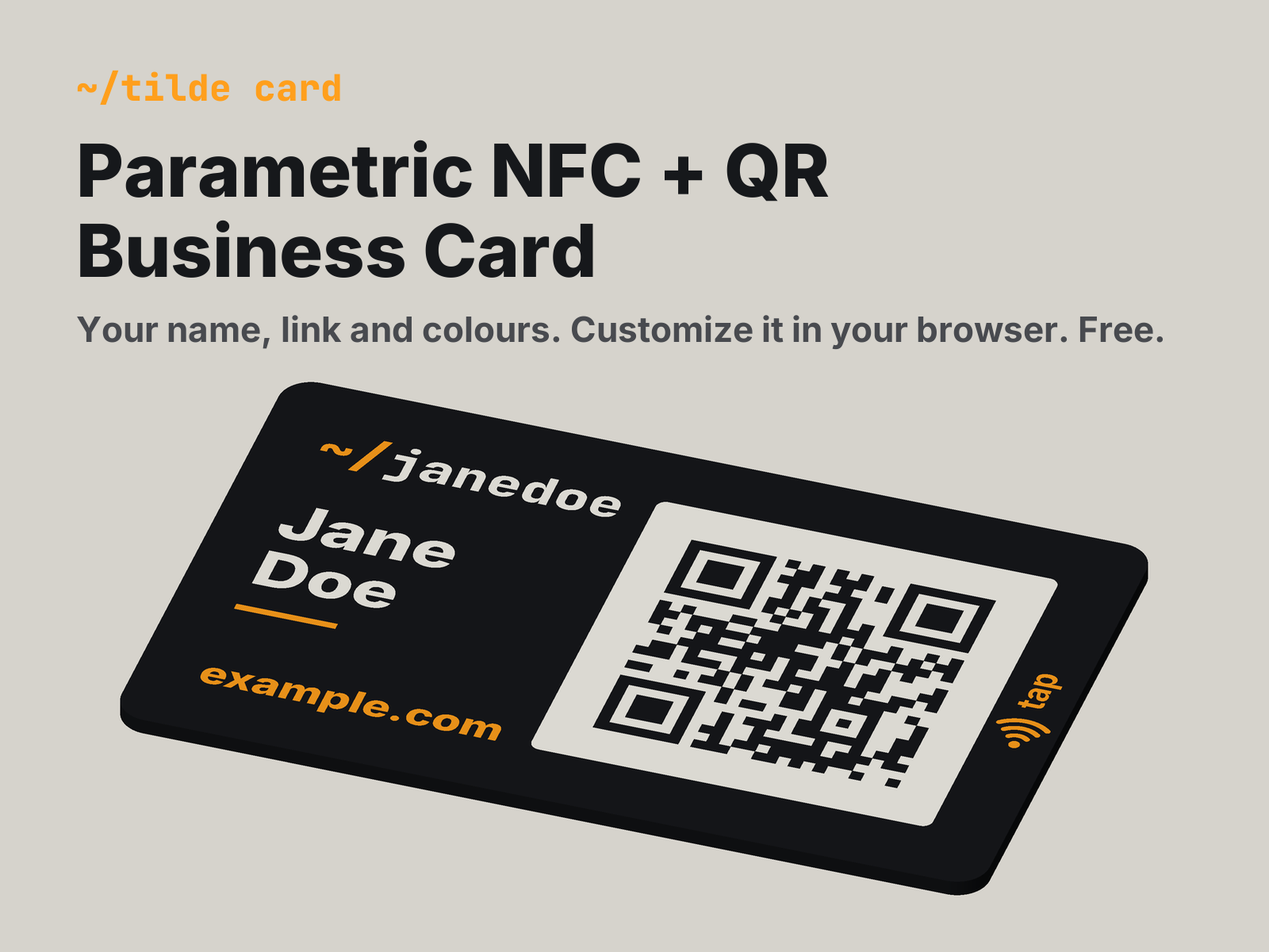
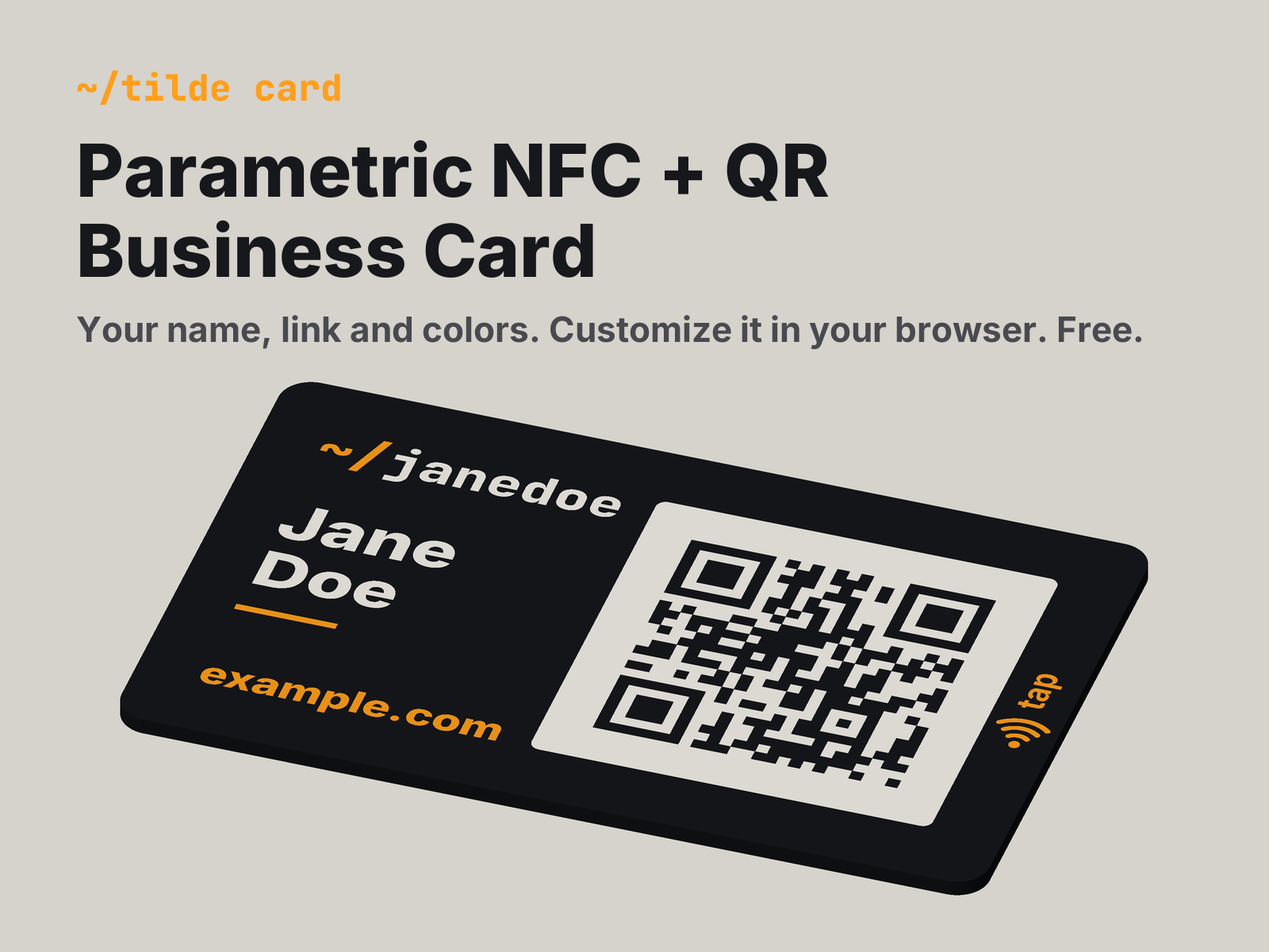
US spelling across tilde-card: color, gray, center, license, rasterize, neighbor
Docs, the MakerWorld listing, card.scad comments, help and the
Customizer section [Colours] -> [Colors], the 'Color layers' console
line, script comments and docstrings, and the cover subtitle ('colors');
makerworld/tilde-card.scad and the two title covers are regenerated.
Code identifiers stay as they are (the OpenSCAD parameter and Python
variables named colour/centre). Geometry unchanged: build.sh exits 0 and
out/ is byte-identical.

Changed region(s): [[0.375, 0.3083, 0.9062, 0.37]]

diff --git a/scripts/verify.py b/scripts/verify.py
@@ -1,8 +1,8 @@
 """Check the exported STLs, not the source: the QR code decodes and the text strokes are printable.
 
-Every colour body must be manifold (each edge shared by exactly two triangles), or the slicer
-will flag it for repair. Then it rasterises each face of the card from the STLs, in print
-colours: the front from the top-facing triangles at the top surface, the back from the
+Every color body must be manifold (each edge shared by exactly two triangles), or the slicer
+will flag it for repair. Then it rasterizes each face of the card from the STLs, in print
+colors: the front from the top-facing triangles at the top surface, the back from the
 bottom-facing triangles at z = 0, flipped so it reads as it will when the card is turned over.
 
 - The QR code on the front must decode with ZXing (the decoder behind many phone scanners) to
@@ -47,7 +47,7 @@ PX_PER_MM = 20
 MIN_STROKE_MM = args.min_stroke
 MIN_GAP_MM = args.min_gap
 CORNER_SLIVER_MM2 = 0.06
-OFF_CARD = (255, 0, 255)  # matches no print colour
+OFF_CARD = (255, 0, 255)  # matches no print color
 QR_FIELD_X_MM = (38.5, 78.6)  # the QR field's light area; light text sits on either side of it
 # Acute inner corners always fill a little when "closed", whatever their size: the gap check
 # cannot tell them from a real narrow gap. Each reviewed corner is listed here as (face, x, y) in
@@ -66,7 +66,7 @@ KNOWN_THIN_TIPS = [
     ("back", 24.2, 17.5),
     ("back", 26.8, 17.5),
 ]
-PARTS = {  # print colours: black PLA, white PLA, orange PLA
+PARTS = {  # print colors: black PLA, white PLA, orange PLA
     "body": (22, 24, 27),
     "light": (241, 239, 232),
     "accent": (255, 159, 28),
@@ -75,7 +75,7 @@ PARTS = {  # print colours: black PLA, white PLA, orange PLA
 
 
 def surface_raster(meshes, face, px_per_mm=PX_PER_MM):
-    """The STLs' "top" or "bottom" face in print colours, drawn as seen from above."""
+    """The STLs' "top" or "bottom" face in print colors, drawn as seen from above."""
     lo = min(mesh.bounds[0][2] for mesh in meshes.values())
     hi = max(mesh.bounds[1][2] for mesh in meshes.values())
     z, sign = (hi, 1) if face == "top" else (lo, -1)

diff --git a/scripts/render_preview.py b/scripts/render_preview.py
@@ -1,6 +1,6 @@
-"""Render a 3/4 preview of the three colour bodies from the exported STLs.
+"""Render a 3/4 preview of the three color bodies from the exported STLs.
 
-A small z-buffer rasteriser (orthographic camera, one directional light), because OpenSCAD's
+A small z-buffer rasterizer (orthographic camera, one directional light), because OpenSCAD's
 PNG export needs an OpenGL context that the headless Docker image does not have.
 
     .venv/bin/python scripts/render_preview.py --dir out/nozzle-0.2   # writes <dir>/preview.png
@@ -38,7 +38,7 @@ meshes = {name: trimesh.load(ROOT / args.dir / f"card-{name}.stl") for name in P
 if args.face_down == "front":
     # The STLs lie front-down for printing; turn them back over (about the long axis) to show the front.
     for mesh in meshes.values():
-        mesh.apply_transform(trimesh.transformations.rotation_matrix(np.pi, [1, 0, 0]))  # the view centres itself
+        mesh.apply_transform(trimesh.transformations.rotation_matrix(np.pi, [1, 0, 0]))  # the view centers itself
 centre = meshes["body"].bounds.mean(axis=0)
 rot = rotation(-TILT_DEG, TURN_DEG)
 light = LIGHT / np.linalg.norm(LIGHT)
@@ -86,8 +86,8 @@ Image.fromarray(image.clip(0, 255).astype(np.uint8)).resize((WIDTH, HEIGHT), Ima
 print(f"wrote {out.relative_to(ROOT)}")
 
 if args.transparent:
-    # Scale colour premultiplied by coverage, then divide it back out, so the edges carry no
-    # trace of the background colour.
+    # Scale color premultiplied by coverage, then divide it back out, so the edges carry no
+    # trace of the background color.
     covered = depth > -np.inf
     alpha = Image.fromarray((covered * 255).astype(np.uint8)).resize((WIDTH, HEIGHT), Image.LANCZOS)
     premultiplied = np.where(covered[..., None], image, 0).clip(0, 255).astype(np.uint8)

diff --git a/scripts/make_covers.py b/scripts/make_covers.py
@@ -21,11 +21,11 @@ OUT = ROOT / "makerworld" / "images" / "covers"
 W, H = 1600, 1200
 BACKGROUND = (214, 211, 204)  # render_preview.py's background
 INK = (22, 24, 27)            # #16181b, the card's black
-SUBTLE = (72, 74, 79)         # the subtitle's dark grey
+SUBTLE = (72, 74, 79)         # the subtitle's dark gray
 AMBER = (255, 159, 28)        # #ff9f1c
 BRAND = "~/tilde card"
 TITLE = ["Parametric NFC + QR", "Business Card"]
-SUBTITLE = ["Your name, link and colours.", "Customize it in your browser. Free."]
+SUBTITLE = ["Your name, link and colors.", "Customize it in your browser. Free."]
 
 # The phone, at scale 1: measured from the original cover (a 540 x 1200 screenshot shown at 0.8).
 PHONE = (460, 988)            # outer size

diff --git a/scripts/make_makerworld.py b/scripts/make_makerworld.py
@@ -29,7 +29,7 @@ EXAMPLE = {
 }
 
 HEADER = """\
-// Tilde card: a credit-card-sized business card you print in one go on a multi-colour printer.
+// Tilde card: a credit-card-sized business card you print in one go on a multi-color printer.
 // The front has your name, your website and a QR code that opens your link; an optional NFC
 // sticker, sealed inside during the print, lets phones tap it too. Made for Tilde, the free
 // Android app that turns your phone into the same card.

diff --git a/PRINTING.md b/PRINTING.md
@@ -1,7 +1,7 @@
 # Printing the Tilde card
 
 This guide is written for a Bambu Lab A1 mini with an AMS lite, using Bambu Studio. Other
-multi-colour printers work too; the steps are much the same.
+multi-color printers work too; the steps are much the same.
 
 The model is free and open source (MIT; CC BY 4.0 on MakerWorld): no account, sign-up or payment,
 and the card links straight to your own website. The NFC sticker is optional. Without one you get a
@@ -9,10 +9,10 @@ QR card, and you can skip everything about stickers and the pause.
 
 ## What you need
 
-- **A printer that prints several colours in one go**, such as a Bambu Lab printer with an AMS or
-  AMS lite. The card changes colour about 30 times (roughly half that with no back design), which
+- **A printer that prints several colors in one go**, such as a Bambu Lab printer with an AMS or
+  AMS lite. The card changes color about 30 times (roughly half that with no back design), which
   is too many to do by hand.
-- **PLA in black, white and orange**, plus **grey** for the window bar on the terminal-style back
+- **PLA in black, white and orange**, plus **gray** for the window bar on the terminal-style back
   (optional: use white or orange instead).
 - **A 0.2 mm or 0.4 mm nozzle.** See [Choose a nozzle](#choose-a-nozzle).
 - **Optional, for a card people can tap:** a 25 mm round NFC sticker for each card (see [Buying NFC
@@ -27,19 +27,19 @@ The files in `out/` are a sample card for Jane Doe, an example person. To print 
 details first:
 
 - **On MakerWorld (coming soon; the easiest):** open the model page, click **Customize**, and fill
-  in your name, link, website, the back of the card and the colours. Under **Printing**, choose your
+  in your name, link, website, the back of the card and the colors. Under **Printing**, choose your
   nozzle and whether to add an NFC sticker. The preview updates as you type; then open the result in
   Bambu Studio.
 - **In OpenSCAD (free, [openscad.org](https://openscad.org)):** open `card.scad`, show the
   Customizer (**Window → Customizer**), change the settings in the first sections and export a
-  3MF. Use a recent development snapshot of OpenSCAD: it keeps the four colours in the 3MF.
+  3MF. Use a recent development snapshot of OpenSCAD: it keeps the four colors in the 3MF.
 
 The choices that change the print:
 
 | Setting | Options |
 | --- | --- |
 | **NFC sticker** | **None:** a QR card, with no pocket, no "tap" marker and no pause. **Thin** or **thick stickers:** a card people can tap too; see [Buying NFC stickers](#buying-nfc-stickers). |
-| **Back of the card** | Three lines of your choice, such as your name, title and email. **Terminal window:** a command such as `$ whoami`, then your lines. **Plain:** just your lines. **None:** plain black, the quickest to print, with roughly half the colour changes. Choose None to add your own text or logo in Bambu Studio: the back is the top face as it prints, so the text and colour-painting tools work there, and the sticker's pause layer doesn't change. |
+| **Back of the card** | Three lines of your choice, such as your name, title and email. **Terminal window:** a command such as `$ whoami`, then your lines. **Plain:** just your lines. **None:** plain black, the quickest to print, with roughly half the color changes. Choose None to add your own text or logo in Bambu Studio: the back is the top face as it prints, so the text and color-painting tools work there, and the sticker's pause layer doesn't change. |
 | **Nozzle** | **0.2 mm** or **0.4 mm**; see [Choose a nozzle](#choose-a-nozzle). |
 | **Tap label** and **back tap mark** | With NFC: the word by the tap waves ("tap", or your own, such as "tap to connect"; empty for just the waves), and whether to repeat the waves and label on the back, over the sticker. |
 
@@ -60,12 +60,12 @@ the difference is in the small text and the print time.
 | **Small text** | Sharp. Every letter prints exactly as designed | The front is clean. Small letters on the back (`m`, `@`, `$`) can come out a little soft or partly filled in |
 | **Tap label** ("tap" by default) | Inter Bold, 2.6 mm | Inter ExtraBold, 3 mm (the lighter weight is too fine for this nozzle) |
 | **Layers** | 16 layers of 0.1 mm | 8 layers of 0.2 mm |
-| **Colour changes** | About 30 per plate | About half as many |
+| **Color changes** | About 30 per plate | About half as many |
 | **Print time** | About 4½ hours for one card | About 75 minutes for one card |
-| **Filament** | About 9 g in the card, plus about 12 g purged during colour changes | Similar in the card, less purge |
+| **Filament** | About 9 g in the card, plus about 12 g purged during color changes | Similar in the card, less purge |
 | **Best for** | The best-looking card, if you have a 0.2 mm nozzle and the time | Most printers come with a 0.4 mm nozzle, and it's over three times faster |
 
-**The time is mostly colour changes, not the cards.** Colour changes happen once per layer for the
+**The time is mostly color changes, not the cards.** Color changes happen once per layer for the
 whole plate, so printing two or three cards at once takes only a little longer than printing one,
 and wastes almost no extra filament. If you're printing a stack of cards, fill the plate.
 
@@ -118,13 +118,13 @@ New to it? Print a QR card first (**NFC sticker: none**): no pause, nothing to b
    nozzle** for the 0.2 mm nozzle, **0.20mm Standard @BBL A1M** for the 0.4 mm nozzle. Other
    printers have their own Standard processes with the same layer heights.
 2. Open your card:
-   - **Your own card (a 3MF from MakerWorld or OpenSCAD):** open it, then check the four colours
-     are assigned to the right filaments (black, white, orange, grey) in the **Filament** list.
+   - **Your own card (a 3MF from MakerWorld or OpenSCAD):** open it, then check the four colors
+     are assigned to the right filaments (black, white, orange, gray) in the **Filament** list.
    - **The sample card (the STLs in `out/`):** drag in all four files from one version's folder at
      once (`card-body.stl`, `card-light.stl`, `card-accent.stl`, `card-chrome.stl`). When asked
      whether to load them as **a single object with multiple parts**, choose **Yes**.
 3. If you loaded the STLs, set each part's filament: **body** → black, **light** → white,
-   **accent** → orange, **chrome** → grey.
+   **accent** → orange, **chrome** → gray.
 4. Change these three settings (the same for both nozzles):
 
    | Setting | Where | Change to | Why |
@@ -144,7 +144,7 @@ New to it? Print a QR card first (**NFC sticker: none**): no pause, nothing to b
    | Brim | None | |
 
 5. Leave room on the plate for the **prime tower** (the small block the printer purges into when
-   it changes colour). Drag it onto an empty spot if it's off the plate.
+   it changes color). Drag it onto an empty spot if it's off the plate.
 6. Fill the plate: select the card, press **+** to add copies, then **Arrange** (**A**). Three
    cards take barely longer than one, and fit comfortably on the A1 mini's plate.
 
@@ -203,7 +203,7 @@ Only lock it once the finished card works; you can lock it through the card.
 
 ## Check your first card
 
-- The white square behind the QR code is white, not grey or speckled.
+- The white square behind the QR code is white, not gray or speckled.
 - The QR code's squares are crisp, and it scans with your phone's camera.
 - With NFC: tapping the card on the "tap" marker opens your link. iPhones read NFC near the top edge, by the
   camera; Android phones usually in the middle or upper part of the back.
@@ -212,7 +212,7 @@ Only lock it once the finished card works; you can lock it through the card.
 
 ## If something goes wrong
 
-- **The white looks grey or has black specks:** increase the flushing volume from black to white
+- **The white looks gray or has black specks:** increase the flushing volume from black to white
   (the **Flushing volumes** button next to the filament list).
 - **Small letters on the front are missing or didn't stick:** wash the plate with dish soap and
   water (fingerprints stop small details sticking) and lower the initial layer speed, for example

diff --git a/makerworld/listing.md b/makerworld/listing.md
@@ -8,11 +8,11 @@ other.
 **Before publishing:**
 
 - [x] Make the model customizable: upload `tilde-card.scad` (generated by `build.sh`) to
-      the Parametric Model Maker. Names, link, handle, website, the back, colours, nozzle and
+      the Parametric Model Maker. Names, link, handle, website, the back, colors, nozzle and
       sticker thickness are settings; the QR code is generated in the model.
 - [ ] After uploading, try it in the Parametric Model Maker: the default Jane Doe card, a long
       name, a 40-character link, both nozzles and both sticker options. Check the 3MF opens in
-      Bambu Studio with four colours, and that the fonts are Inter and JetBrains Mono.
+      Bambu Studio with four colors, and that the fonts are Inter and JetBrains Mono.
 - [ ] Print one card from a Parametric Model Maker 3MF and scan it with an iPhone and an Android
       phone.
 - [x] Tag thickness: standard pocket for 0.10–0.20 mm stickers, plus a thick-sticker option up to
@@ -21,7 +21,7 @@ other.
 - [ ] Optional: make a print profile for each nozzle with the settings in. The page lists the
       settings instead, and explains how to add the pause, which can't be stored in a customized
       card.
-- [x] Licence: **CC BY 4.0** (anyone may print, remix and sell cards, with credit). The source
+- [x] License: **CC BY 4.0** (anyone may print, remix and sell cards, with credit). The source
       repo is MIT.
 - [x] Publish Tilde on GitHub first, and this repo too (or drop its link), so the links below work.
 
@@ -33,10 +33,10 @@ other.
    (https://makerworld.com/en/makerlab/parametricModelMaker?pageType=generator), signed in. Start a
    new script and paste it in, or upload the file if the editor offers that. Nothing is public until
    you publish it as a model.
-3. Run it: the Jane Doe sample card should appear in four colours. Then try your own name, a long
+3. Run it: the Jane Doe sample card should appear in four colors. Then try your own name, a long
    name, a 40-character link, the 0.4 mm nozzle and thick stickers.
 4. Generate the 3MF and open it in Bambu Studio. Check that the fonts are Inter and JetBrains Mono
-   (not a fallback), that the four colours can be assigned to filaments, and that nothing times out.
+   (not a fallback), that the four colors can be assigned to filaments, and that nothing times out.
 
 **Photo shot list:** the card in a hand; front and back on a desk; a phone tapping the card with
 the website opening; the 0.2 mm and 0.4 mm cards side by side, close up on the small text; the
@@ -47,7 +47,7 @@ open pocket at the pause, with a sticker going in; a stack of cards on the plate
 | File | Caption |
 | --- | --- |
 | `01-cover.png` | Tilde turns your phone into an NFC business card; print a Tilde card to go with it |
-| `02-card-3d.png` | Four colours, printed in one go |
+| `02-card-3d.png` | Four colors, printed in one go |
 | `03-front.png` | The front: your name, your link and a QR code |
 | `04-back.png` | The back: a terminal window with your details |
 | `05-app-share.png` | Tilde: your card on your phone |
@@ -63,7 +63,7 @@ Tilde Card: Customizable NFC + QR Business Card (Free)
 ## Summary
 
 A free business card you customize and print: a QR code on the front, and an optional NFC
-sticker sealed inside so people can tap it too. Prints in one go on a multi-colour printer (AMS
+sticker sealed inside so people can tap it too. Prints in one go on a multi-color printer (AMS
 or similar). Made for Tilde, the free, open-source Android app that turns your phone into the
 same card. Nobody you hand it to needs an app.
 
@@ -78,7 +78,7 @@ account, subscription or service in between: the card opens your own website, an
 whatever you write to it.
 
 **Make it yours.** Click **Customize** to type in your name, website, the lines on the back and the
-colours. The QR code is made for your link automatically, and long text shrinks to fit.
+colors. The QR code is made for your link automatically, and long text shrinks to fit.
 
 **Choose your card:**
 - **NFC sticker:** none (a QR card: no stickers, no pause), or thin or thick NFC stickers, sealed
@@ -89,7 +89,7 @@ colours. The QR code is made for your link automatically, and long text shrinks 
   such as your name, title and email.
 
 Want your own design on the back? Choose **None** for a plain back and add your text or logo in
-Bambu Studio: the back is the top face as it prints, so the text and colour-painting tools work
+Bambu Studio: the back is the top face as it prints, so the text and color-painting tools work
 there, and the sticker's pause layer doesn't change.
 
 **Your whole contact card in one tap.** With an NFC sticker, the card can hold more than a link:
@@ -100,9 +100,9 @@ Change it any time by writing it again, or lock it so nobody can (that's permane
 
 ### What you need
 
-- A multi-colour printer (AMS, AMS lite or similar). The card changes colour about 30 times
+- A multi-color printer (AMS, AMS lite or similar). The card changes color about 30 times
   (roughly half that with no back design).
-- PLA in black, white and orange, plus grey for the window bar on the terminal back (optional).
+- PLA in black, white and orange, plus gray for the window bar on the terminal back (optional).
 - A 0.2 mm or 0.4 mm nozzle.
 - **For NFC (optional):** 25 mm round NTAG215 NFC stickers, up to 0.4 mm thick (see below), and a
   phone with NFC plus a free app to write the sticker: Tilde (Android) or NFC Tools (iPhone and
@@ -117,7 +117,7 @@ The settings for each are listed below.
 - **0.4 mm nozzle:** about 75 minutes for one card, and it's the nozzle most printers come with.
   The front looks clean; the smallest letters on the back can come out slightly soft.
 
-Most of the time goes on colour changes, which happen once per layer for the whole plate. So
+Most of the time goes on color changes, which happen once per layer for the whole plate. So
 **two or three cards take barely longer than one**: fill the plate.
 
 ### NFC stickers (optional)
@@ -142,7 +142,7 @@ New to it? Print a QR card first (**NFC sticker: none**): no pause, nothing to b
 
 1. Click **Customize** and fill in your details. Under **Printing**, choose your nozzle and NFC
    option. Then open it in Bambu Studio.
-2. Check the four colours are assigned to the right filaments (black, white, orange, grey) in the
+2. Check the four colors are assigned to the right filaments (black, white, orange, gray) in the
    **Filament** list.
 3. Pick the process and change three settings: see **Print settings** below.
 4. Fill the plate: select the card, press **+** to add copies, then **Arrange** (**A**). Three

diff --git a/docs/DESIGN.md b/docs/DESIGN.md
@@ -25,7 +25,7 @@ The technical side of the card: how the model is built, checked and generated. T
   same three lines, `back_line_1` to `back_line_3`; an empty one is skipped. The terminal style is
   a window: a gray title bar (three dots and a rule), then a session (`$ ` and `terminal_command`,
   `whoami` by default, the three lines, a cursor) anchored under it, inlaid 0.6 mm. The plain style
-  prints the lines in Inter, centred vertically: the first larger, the second in amber. Both shrink
+  prints the lines in Inter, centered vertically: the first larger, the second in amber. Both shrink
   to fit like the front. The back reads correctly when the card is turned over sideways.
 - **Print orientation:** the front prints face-down (`face_down = "front"`), because the plate
   side came out flat and matte on the first sample and the top side came out ridged. The STLs
@@ -46,12 +46,12 @@ Two versions are built from the same model, `out/nozzle-0.2/` and `out/nozzle-0.
 | `card.local.example.scad` | A template for `card.local.scad` (git-ignored): your own settings, one `setting = value;` per line, which `build.sh` passes to OpenSCAD as `-D` flags. |
 | `makerworld/tilde-card.scad` | The copy uploaded to MakerWorld's customizer, written by `scripts/make_makerworld.py`: no font file lines, and the example person Jane Doe as the defaults. Never edited by hand. |
 | `out/makerworld-sample/`, `out/makerworld-sample-qr-only-plain/` | Cards built from the MakerWorld copy, to check it renders and passes the checks: the default, and one with no NFC sticker and the plain back (its first line typed as "Jane Doe"). |
-| `out/nozzle-{0.2,0.4}/card-{body,light,accent,chrome}.stl` | The sample card (Jane Doe): one STL per colour (black, white, orange, gray), per nozzle, for stickers up to 0.2 mm. |
+| `out/nozzle-{0.2,0.4}/card-{body,light,accent,chrome}.stl` | The sample card (Jane Doe): one STL per color (black, white, orange, gray), per nozzle, for stickers up to 0.2 mm. |
 | `out/nozzle-{0.2,0.4}-thick-sticker/` | The same for stickers up to 0.4 mm: a 1.8 mm card with a deeper pocket. |
-| `out/nozzle-*/card-{top,back}-surface.png` | Each face as printed, rasterised from the STLs (the back as seen from behind); the QR check decodes the front. |
-| `out/nozzle-*/preview.png` | A 3/4 render of the front, from the colour STLs. |
+| `out/nozzle-*/card-{top,back}-surface.png` | Each face as printed, rasterized from the STLs (the back as seen from behind); the QR check decodes the front. |
+| `out/nozzle-*/preview.png` | A 3/4 render of the front, from the color STLs. |
 | `out/local/` | Your own card, built from `card.local.scad` when it exists, in the same layout as `out/`. Git-ignored. |
-| `fonts/` | Static instances of the site's variable fonts (SIL Open Font License; see the licence files). |
+| `fonts/` | Static instances of the site's variable fonts (SIL Open Font License; see the license files). |
 | `scripts/` | Checks (`verify.py`, `test_qr.py`), the preview render, the MakerWorld copy and the MakerWorld cover options (`make_covers.py`, into `makerworld/images/covers/`). |
 
 ## Build
@@ -84,8 +84,8 @@ limits to `verify.py`.
 
 `scripts/verify.py` checks the exported STLs, not the source:
 
-- every colour body is manifold (each edge shared by exactly two triangles);
-- the front, rasterised from the STLs in print colours, decodes with ZXing to exactly the link:
+- every color body is manifold (each edge shared by exactly two triangles);
+- the front, rasterized from the STLs in print colors, decodes with ZXing to exactly the link:
   at 20 px/mm, at 4 px/mm, and with a heavy blur. OpenCV's decoder runs too, as a warning only:
   it misses some valid symbols (for `https://tbutman.com/hello`, masks 5 and 6 at full
   resolution, including segno's own), which ZXing reads;
@@ -112,7 +112,7 @@ The card is 1.6 mm thick. With the 0.2 mm nozzle that is 16 layers of 0.1 mm:
 
 | Layer | Height (top of layer) | Contents |
 | --- | --- | --- |
-| 1–6 | 0.10–0.60 mm | The front, face-down: black, white and orange inlays; the AMS swaps colours on each layer |
+| 1–6 | 0.10–0.60 mm | The front, face-down: black, white and orange inlays; the AMS swaps colors on each layer |
 | 7–8 | 0.70–0.80 mm | Black |
 | 9–10 | 0.90–1.00 mm | Black, with the open NFC pocket (25.3 mm round, under the QR code, against the card's right edge as seen from the front) |
 | — | — | **Pause: drop in the NFC tag** |
@@ -152,11 +152,11 @@ less than 0.2 mm of black between it and the front inlays.
   covers the difference. Two names shrink together, as do all the back's lines.
 
 - The QR modules are the black body showing through the white field, so the code has no
-  separate dark part. Dark modules are grown by 0.02 mm (`qr_overlap`), so diagonal neighbours
+  separate dark part. Dark modules are grown by 0.02 mm (`qr_overlap`), so diagonal neighbors
   overlap instead of meeting at a zero-width edge. That edge would make both STLs non-manifold.
 - `JetBrains Mono` set the domain at first, but its narrow `m` has stems under 0.5 mm at this
   size. Inter's `m` is wider. The mono face stays for the `~/tbutman` mark, which matches the
-  site header: amber `~/`, light `tbutman`. It is set as one string and split by colour, so the
+  site header: amber `~/`, light `tbutman`. It is set as one string and split by color, so the
   spacing is the font's own.
 - With a 0.4 mm nozzle, several glyphs need thickening to reach 0.5 mm strokes (the mono `a`
   joint, the `$` bar). The `*_bolden` parameters do that for the 0.4 version; for the 0.2 version

diff --git a/README.md b/README.md
@@ -27,11 +27,11 @@ own, and any NFC app can write the sticker. More about Tilde and the card:
 - **Three backs to choose from:** a terminal window (`$ whoami`, as above), a plain one, or none,
   which prints fastest. Both designs print three lines you choose, such as your name, title and
   email.
-- **Four colours of PLA**, printed in one go on a printer with an AMS (or another multi-colour
+- **Four colors of PLA**, printed in one go on a printer with an AMS (or another multi-color
   system). No painting or gluing.
 
 The files in `out/` are a sample card for Jane Doe, an example person. To make yours, type in your
-name, links and colours on MakerWorld (coming soon) or in OpenSCAD's Customizer: see
+name, links and colors on MakerWorld (coming soon) or in OpenSCAD's Customizer: see
 [Make it yours](PRINTING.md#make-it-yours).
 
 ## Print one
@@ -53,9 +53,9 @@ The model is written in [OpenSCAD](https://openscad.org): `card.scad` holds ever
 line of text as a setting. [docs/DESIGN.md](docs/DESIGN.md) covers how it's built and checked,
 the design decisions, and the print log.
 
-## Licence
+## License
 
 The model and scripts are [MIT](LICENSE) © Thomas Butman. The printable files on MakerWorld are
 shared under [CC BY 4.0](https://creativecommons.org/licenses/by/4.0/): print, remix and sell
 cards freely, with credit. The fonts in `fonts/` are Inter and JetBrains Mono, under the SIL Open
-Font License (see the licence files beside them).
+Font License (see the license files beside them).
